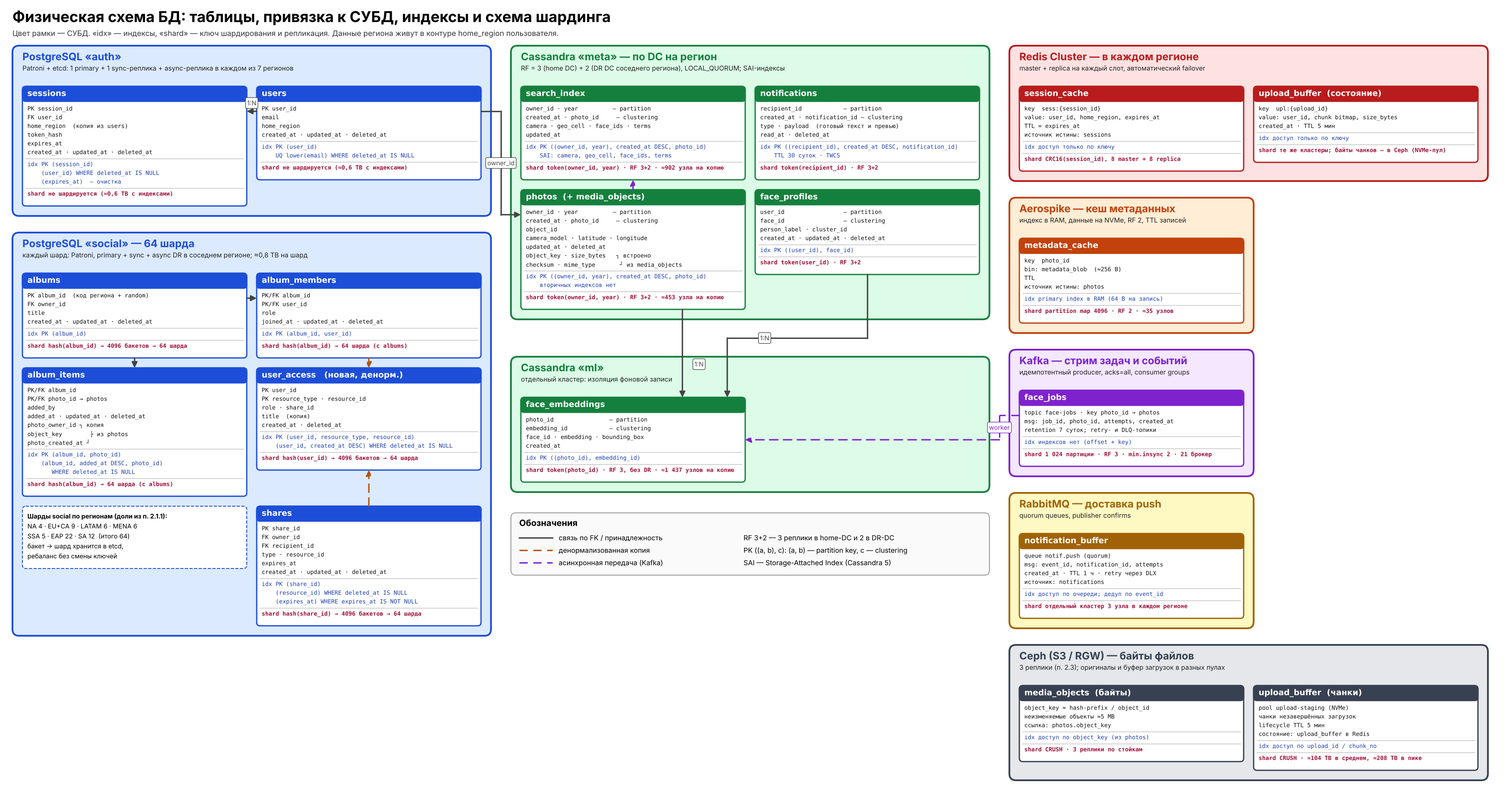
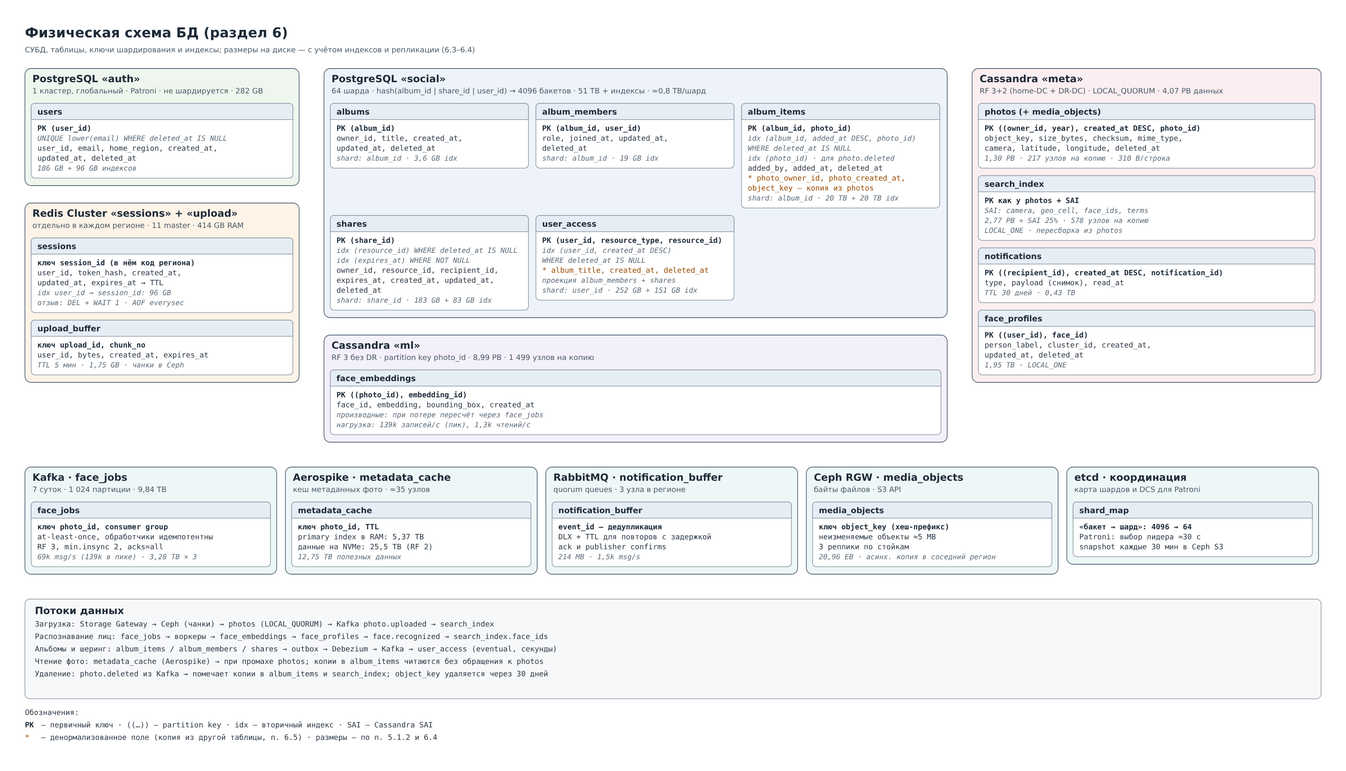
HW6: fix issues from the lesson

diff --git a/README.md b/README.md
@@ -980,7 +980,30 @@ flowchart LR
 | `notification_buffer`                    | RabbitMQ                                  | Всего 1,5k msg/s и 383 MB; нужны ack и повтор с задержкой (DLX + TTL)                                                                                                               |
 | `media_objects` (байты)                  | Ceph (S3/RGW)                             | 20,96 EB неизменяемых объектов по ≈5 MB, проблемы мелких файлов нет                                                                                                                 |
 
+#### 6.2.1. Почему Cassandra, а не MongoDB
+
+Наш профиль для `photos`, `search_index`, `face_*`: append-only запись неизменяемых строк (≈0,56 млн записей/с в пике суммарно по четырём таблицам), доступ только по ключу, 1–5 тысяч узлов, несколько ДЦ.
+
+| Критерий        | Cassandra                                                                                                               | MongoDB                                                                                                              | Что важно для нас                                                 |
+| --------------- | ----------------------------------------------------------------------------------------------------------------------- | -------------------------------------------------------------------------------------------------------------------- | ----------------------------------------------------------------- |
+| Запись          | Masterless: любая реплика принимает запись; LSM — commit log + memtable, последовательный I/O, без чтения перед записью | Один primary на шард (replica set); WiredTiger — B-дерево, случайный I/O                                             | 139k write QPS на каждую из 4 таблиц                              |
+| Масштабирование | Добавили узел — токены перераспределяются, драйвер сам знает, куда идти (token-aware)                                   | Нужны `mongos`, config servers и балансировщик чанков; шард — это целый replica set из 3 узлов                       | 1 085 – 4 497 узлов на таблицу                                    |
+| Несколько ДЦ    | RF задаётся на ДЦ (3 + 2), `LOCAL_QUORUM` не выходит за пределы home-DC                                                 | В replica set один primary на весь набор: запись из другого ДЦ идёт через него                                       | Запись в home-DC, асинхронная копия в DR-DC                       |
+| Отказ узла      | Выборов нет, драйвер уходит на другую реплику                                                                           | Выборы нового primary, на это время запись в шард недоступна                                                         | Нет простоя записи при отказах                                    |
+| Диск            | Строки лежат отсортированными по PK, отдельного индекса под PK нет                                                      | Обязательный индекс по `_id` плюс индекс по ключу шардирования: на 4,19 трлн документов это десятки TB лишнего диска | Узкие строки (154 B), индексы заметно раздувают объём             |
+| Запросы         | Только по ключу партиции; нет join и ad hoc запросов                                                                    | Богатый язык запросов, вторичные индексы, агрегации                                                                  | Все запросы идут по `owner_id` / `user_id`: богатый язык не нужен |
+
+Цена выбора: приходится денормализовать (п. 6.5), держать 50% диска свободным под компакшены (поэтому узел — 6 TB данных на 12 TB NVMe) и удалять мягко (`deleted_at`), чтобы не плодить tombstones. MongoDB выиграла бы при гибких запросах, вложенных документах и объёмах в единицы TB; здесь этого нет. Для таблиц, где нужны транзакции и уникальность (`users`, альбомы), берём PostgreSQL.
+
 ### 6.3. Шардирование и резервирование (потаблично)
+
+**Зачем шардируем:** Пик нагрузки на всё хранилище `social` ≈7,8k QPS (5,2k чтений + 2,6k записей, без `user_access`), то есть ≈120 QPS на шард из 64; такое выдержал бы и один primary. А вот данных 51 TB, тогда как один узел PostgreSQL комфортно держит ≈2 TB: на этом объёме индексы ещё помещаются в RAM, а vacuum и восстановление из бэкапа укладываются в разумное время. Отсюда:
+
+1. По объёму нужно минимум 26 шардов (51,07 TB / 2 TB).
+2. Берём 64: (а) шард 0,8 TB восстанавливается ≈30 мин, единая база на 51 TB — ≈32 часа; (б) запас роста ×2,5 до лимита 2 TB; (в) 4096 бакетов делятся поровну, а регионы получают целое число шардов по своей доле (NA 4 … EAP 22) — данные остаются в `home_region`; (г) сбой или порча шарда касается 1/64 альбомов.
+3. Ключ `hash(album_id)` держит все таблицы альбома в одном шарде: транзакция локальная, распределённого коммита (2PC) нет.
+
+`users` (282 GB, 5,7k read QPS в пике, записей почти нет) не шардируется: он целиком помещается на один узел, а глобальная уникальность `email` при шардировании потребовала бы межшардовой проверки. В Cassandra шардирование встроено (партиционирование по partition key): число узлов определяется объёмом (≤ 6 TB данных на узел) и записью 139k QPS.
 
 Допущения для расчёта: шард PostgreSQL до 2 TB с индексами, узел Cassandra до 6 TB данных (12 TB NVMe, остальное под компакшены). Индексы PostgreSQL добавляют около 40% к объёму, SAI в Cassandra около 25% (допущение).
 
@@ -1003,22 +1026,35 @@ flowchart LR
 
 ### 6.4. Индексы
 
-| Таблица           | Индексы                                                                                                    | Для какого запроса                                                    |
-| ----------------- | ---------------------------------------------------------------------------------------------------------- | --------------------------------------------------------------------- |
-| `users`           | PK `(user_id)`; UNIQUE `lower(email)` WHERE `deleted_at IS NULL`                                           | Логин по email                                                        |
-| `sessions`        | PK `(session_id)`; `(user_id)` WHERE `deleted_at IS NULL`; `(expires_at)`                                  | Проверка токена; отзыв всех сессий пользователя; очистка просроченных |
-| `albums`          | PK `(album_id)`                                                                                            | Открыть альбом («мои альбомы» — через `user_access`)                  |
-| `album_members`   | PK `(album_id, user_id)`                                                                                   | Проверка членства и роли                                              |
-| `album_items`     | PK `(album_id, photo_id)`; `(album_id, added_at DESC, photo_id)` WHERE `deleted_at IS NULL`                | Уникальность фото в альбоме; страница альбома по порядку добавления   |
-| `shares`          | PK `(share_id)`; `(resource_id)` WHERE `deleted_at IS NULL`; `(expires_at)` WHERE `expires_at IS NOT NULL` | Открыть ссылку; отозвать все доступы к ресурсу; очистка просроченных  |
-| `user_access`     | PK `(user_id, resource_type, resource_id)`; `(user_id, created_at DESC)` WHERE `deleted_at IS NULL`        | Список «мои и доступные мне альбомы и ссылки»                         |
-| `photos`          | PK `((owner_id, year), created_at DESC, photo_id)`                                                         | Галерея: последние N фото, диапазон дат                               |
-| `search_index`    | Та же PK + SAI по `camera`, `geo_cell`, `face_ids`, `terms`                                                | Поиск внутри партиции владельца: дата, камера, геоданные, лица        |
-| `notifications`   | PK `((recipient_id), created_at DESC, notification_id)`                                                    | Последние уведомления пользователя                                    |
-| `face_profiles`   | PK `((user_id), face_id)`                                                                                  | Список людей в галерее пользователя                                   |
-| `face_embeddings` | PK `((photo_id), embedding_id)`                                                                            | Эмбеддинги лиц одной фотографии                                       |
+Допущения: запись B-дерева в PostgreSQL ≈ длина ключа + 16 B (заголовок и указатель на строку); идентификаторы 8 B, поля выровнены по 8 B; частичные индексы считаем по всем строкам (верхняя оценка); `expires_at` задан у 30% записей `shares`; SAI в Cassandra ≈ 25% от данных таблицы.
 
-Для Redis, Aerospike, Kafka и RabbitMQ доступ идёт только по ключу или очереди, дополнительные индексы не нужны (primary index Aerospike лежит в RAM). Частичные индексы `WHERE deleted_at IS NULL` не хранят строки из «корзины». Во всех таблицах Cassandra, кроме `search_index`, вторичных индексов нет: запросы закрывает первичный ключ.
+| Таблица           | Индексы (размер на диске, по всем шардам)                                                                                               | Для какого запроса                                                                                                 |
+| ----------------- | --------------------------------------------------------------------------------------------------------------------------------------- | ------------------------------------------------------------------------------------------------------------------ |
+| `users`           | PK `(user_id)` — 36 GB; UNIQUE `lower(email)` WHERE `deleted_at IS NULL` — 60 GB                                                        | Логин по email                                                                                                     |
+| `albums`          | PK `(album_id)` — 3,6 GB                                                                                                                | Открыть альбом («мои альбомы» — через `user_access`)                                                               |
+| `album_members`   | PK `(album_id, user_id)` — 19,2 GB                                                                                                      | Проверка членства и роли                                                                                           |
+| `album_items`     | PK `(album_id, photo_id)` — 6,71 TB; `(album_id, added_at DESC, photo_id)` WHERE `deleted_at IS NULL` — 8,39 TB; `(photo_id)` — 5,03 TB | Уникальность фото в альбоме; страница альбома по порядку добавления; найти копии удалённого фото (`photo.deleted`) |
+| `shares`          | PK `(share_id)` — 36 GB; `(resource_id)` WHERE `deleted_at IS NULL` — 36 GB; `(expires_at)` WHERE `expires_at IS NOT NULL` — 10,8 GB    | Открыть ссылку; отозвать все доступы к ресурсу; очистка просроченных                                               |
+| `user_access`     | PK `(user_id, resource_type, resource_id)` — 84 GB; `(user_id, created_at DESC)` WHERE `deleted_at IS NULL` — 67,2 GB                   | Список «мои и доступные мне альбомы и ссылки»                                                                      |
+| `photos`          | PK `((owner_id, year), created_at DESC, photo_id)` — отдельной структуры нет, строки отсортированы по ключу                             | Галерея: последние N фото, диапазон дат; точечное чтение одного фото по полному ключу                              |
+| `search_index`    | Та же PK + SAI по `camera`, `geo_cell`, `face_ids`, `terms` — ≈0,69 PB                                                                  | Поиск внутри партиций владельца: дата, камера, геоданные, лица                                                     |
+| `notifications`   | PK `((recipient_id), created_at DESC, notification_id)`                                                                                 | Последние уведомления пользователя                                                                                 |
+| `face_profiles`   | PK `((user_id), face_id)`                                                                                                               | Список людей в галерее пользователя                                                                                |
+| `face_embeddings` | PK `((photo_id), embedding_id)`                                                                                                         | Эмбеддинги лиц одной фотографии                                                                                    |
+
+Итого по хранилищам (на одну копию данных, без репликации):
+
+| Хранилище                 | Данные                                                 | Индексы                                  | Всего                      |
+| ------------------------- | ------------------------------------------------------ | ---------------------------------------- | -------------------------- |
+| PostgreSQL `auth`         | 186 GB                                                 | 96 GB                                    | 282 GB                     |
+| PostgreSQL `social`       | 30,69 TB                                               | 20,38 TB (≈66% от данных)                | 51,07 TB (≈0,8 TB на шард) |
+| Cassandra «meta»          | 4,07 PB (`photos` 1,30 + `search_index` 2,77 + 2,4 TB) | SAI 0,69 PB                              | ≈4,76 PB                   |
+| Cassandra «ml»            | 8,99 PB                                                | —                                        | 8,99 PB                    |
+| Aerospike                 | 12,75 TB × RF 2 = 25,5 TB NVMe                         | 5,37 TB RAM (primary index)              | 25,5 TB NVMe + 5,37 TB RAM |
+| Redis (сессии и загрузки) | 414 GB RAM                                             | 96 GB из них — индекс `user_id` → сессии | 414 GB RAM                 |
+| Kafka                     | 3,28 TB × RF 3 = 9,84 TB                               | индексы сегментов — доли процента        | 9,84 TB                    |
+
+Индексы PostgreSQL занимают около двух третей от данных, а не 40%, как предполагалось раньше: строки `album_items` узкие (144 B), и на них три индекса. Для RabbitMQ доступ идёт только по очереди, дополнительных индексов нет. Частичные индексы `WHERE deleted_at IS NULL` не хранят строки из «корзины». Во всех таблицах Cassandra, кроме `search_index`, вторичных индексов нет: запросы закрывает первичный ключ.
 
 ### 6.5. Денормализация
 
@@ -1031,6 +1067,16 @@ flowchart LR
 | `home_region`                                                              | В `sessions` и `session_cache` | Маршрутизация запроса в нужный регион без обращения к `users`                               | Не меняется после регистрации                                                                                                    |
 | Готовые текст и превью                                                     | В `notifications.payload`      | Уведомление показывается без join с `albums` и `photos`                                     | Снимок на момент события, не обновляется                                                                                         |
 | Метаданные фото и `face_ids`                                               | В `search_index`               | Поиск без join                                                                              | Обновление по событиям `photo.uploaded` и `face.recognized`, индекс можно пересобрать                                            |
+
+#### 6.5.2. Зачем `user_access`, если есть `shares`
+
+| Таблица         | Роль                                                      | Ключ шардирования | На какой вопрос отвечает                       |
+| --------------- | --------------------------------------------------------- | ----------------- | ---------------------------------------------- |
+| `album_members` | Источник истины: участники альбома и их роли              | `album_id`        | Кто в альбоме                                  |
+| `shares`        | Источник истины: выданные доступы и ссылки (`expires_at`) | `share_id`        | Открыть ссылку; отозвать все доступы к ресурсу |
+| `user_access`   | Проекция обеих таблиц по получателю                       | `user_id`         | Что доступно этому пользователю                |
+
+Вопрос «что мне расшарили» задаётся по получателю, а источники разложены по `album_id` и `share_id`. Без проекции он уходит во все 64 шарда: (1 042 + 1 526) пиковых QPS × 64 ≈ 164k запросов в секунду к шардам, причём время ответа определяет самый медленный шард. С проекцией — ≈2,6k запросов и один шард. Цена: 2,1 млрд строк, ≈0,4 TB с индексами (252 + 151 GB), то есть меньше 1% объёма `social`. Шардировать `shares` по `recipient_id` вместо проекции не стали: тогда scatter переехал бы в «отозвать все доступы к ресурсу».
 
 ### 6.6. Клиентские библиотеки и интеграции
 
